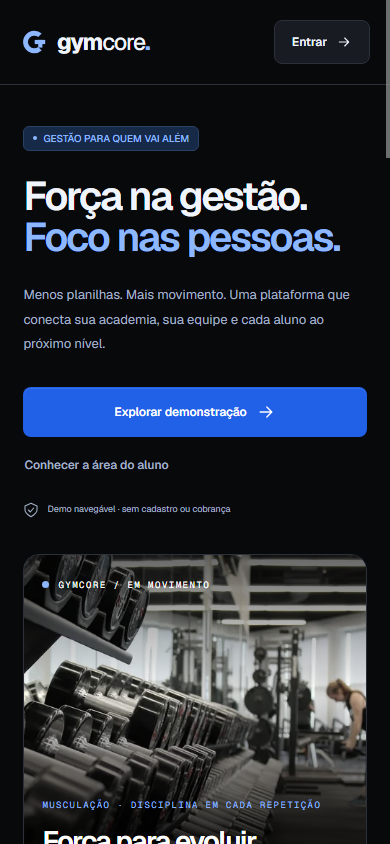
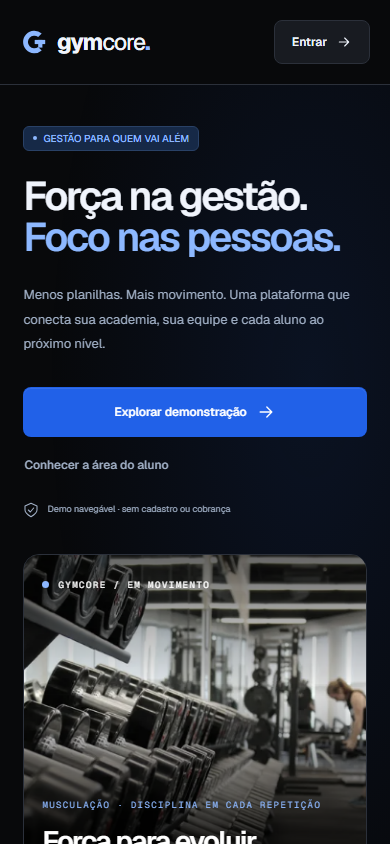
feat: animate home page entrances and interactions

diff --git a/src/components/landing.tsx b/src/components/landing.tsx
@@ -1,11 +1,45 @@
 'use client';
 
 import Link from 'next/link';
+import { useEffect, useRef } from 'react';
 import { GymCarousel } from './gym-carousel';
 import { Logo, Icon } from './icons';
 import { Badge, Button } from './ui';
 export function Landing() {
-  return <div className="landing">
+  const root = useRef<HTMLDivElement>(null);
+  useEffect(() => {
+    const element = root.current;
+    if (!element || !('IntersectionObserver' in window)) return;
+    const preference = window.matchMedia('(prefers-reduced-motion: reduce)');
+    let observer: IntersectionObserver | undefined;
+    const sync = () => {
+      observer?.disconnect();
+      delete element.dataset.motionReady;
+      if (preference.matches) return;
+      observer = new IntersectionObserver(entries => {
+        entries.forEach(entry => {
+          if (entry.isIntersecting) {
+            (entry.target as HTMLElement).dataset.visible = 'true';
+            observer?.unobserve(entry.target);
+          }
+        });
+      }, { threshold: 0.12 });
+      element.querySelectorAll<HTMLElement>('[data-reveal]').forEach(target => {
+        const bounds = target.getBoundingClientRect();
+        if (bounds.top < window.innerHeight && bounds.bottom > 0) target.dataset.visible = 'true';
+        if (!target.dataset.visible) observer?.observe(target);
+      });
+      element.dataset.motionReady = 'true';
+    };
+    sync();
+    preference.addEventListener('change', sync);
+    return () => {
+      observer?.disconnect();
+      preference.removeEventListener('change', sync);
+      delete element.dataset.motionReady;
+    };
+  }, []);
+  return <div ref={root} className="landing">
     <a href="#landing-main" className="skip-link">Pular para o conteúdo</a>
     <header className="landing-header">
       <Link href="/" aria-label="GymCore, início">
@@ -48,8 +82,8 @@ export function Landing() {
         </div>
       </section>
       <section id="produto" className="landing-product">
-        <div className="eyebrow">UM NÚCLEO. TODA A OPERAÇÃO.</div>
-        <h2>Seu negócio não para.<br />Sua gestão acompanha.</h2>
+        <div className="eyebrow" data-reveal>UM NÚCLEO. TODA A OPERAÇÃO.</div>
+        <h2 data-reveal>Seu negócio não para.<br />Sua gestão acompanha.</h2>
         <div className="landing-features">{[{
             icon: 'dashboard',
             title: 'Decisões com direção.',
@@ -65,7 +99,7 @@ export function Landing() {
             title: 'Acesso sem dúvida.',
             text: 'Feedback imediato e estados claros. A recepção pode focar no acolhimento.',
             href: '/recepcao'
-          }].map((f, i) => <Link key={f.title} href={f.href}>
+          }].map((f, i) => <Link key={f.title} href={f.href} data-reveal>
             <span className="feature-index">0{i + 1}</span>
             <Icon name={f.icon} size={32} />
             <h3>{f.title}</h3>
@@ -75,7 +109,7 @@ export function Landing() {
           </Link>)}</div>
       </section>
       <section id="experiencias" className="landing-experiences">
-        <div>
+        <div data-reveal>
           <div className="eyebrow">CADA PESSOA. SEU PRÓPRIO RITMO.</div>
           <h2>Uma experiência que<br />chega até o treino.</h2>
           <p>Reservas, fichas, check-in e evolução. A prévia web do aluno mostra como a academia pode estar presente em cada conquista.</p>
@@ -85,7 +119,7 @@ export function Landing() {
           </Button>
           <p className="small muted">Protótipo web responsivo. App Flutter previsto no handoff.</p>
         </div>
-        <div className="landing-student-card">
+        <div className="landing-student-card" data-reveal>
           <div className="phone-top">
             <span>9:41</span>
             <Icon name="wifi" size={16} />
@@ -112,9 +146,9 @@ export function Landing() {
         </div>
       </section>
       <section id="planos" className="landing-pricing">
-        <div className="eyebrow">ESCOLHA O PRÓXIMO NÍVEL</div>
-        <h2>Um plano para o seu momento.</h2>
-        <p>Conceitos comerciais ilustrativos. Não há contratação ou cobrança nesta demo.</p>
+        <div className="eyebrow" data-reveal>ESCOLHA O PRÓXIMO NÍVEL</div>
+        <h2 data-reveal>Um plano para o seu momento.</h2>
+        <p data-reveal>Conceitos comerciais ilustrativos. Não há contratação ou cobrança nesta demo.</p>
         <div className="pricing-grid">{[{
             name: 'Essencial',
             description: 'O núcleo da sua operação',
@@ -123,7 +157,7 @@ export function Landing() {
             name: 'Performance',
             description: 'Mais visão. Mais possibilidades.',
             items: ['Tudo do Essencial', 'Leads e régua de cobrança', 'Comissões e experiência do aluno']
-          }].map((p, i) => <article key={p.name} className={i ? 'pricing-featured' : ''}>
+          }].map((p, i) => <article key={p.name} data-reveal className={i ? 'pricing-featured' : ''}>
             <Badge tone={i ? 'info' : 'neutral'}>{i ? 'PARA IR ALÉM' : 'PARA COMEÇAR'}</Badge>
             <h3>{p.name}</h3>
             <p>{p.description}</p>

diff --git a/src/app/globals.css b/src/app/globals.css
@@ -5070,7 +5070,7 @@ select,input,textarea { background: var(--bg) }
 }
 .gym-carousel-label>span { width: 7px; height: 7px; background: var(--info); border-radius: 50% }
 .gym-carousel-caption { position: absolute; inset: auto 28px 96px; z-index: 2; color: #fff }
-.gym-carousel-caption>span { font: 9px 'Geist Mono',monospace; letter-spacing: 1.4px; color: var(--info) }
+.gym-caption-content>span { font: 9px 'Geist Mono',monospace; letter-spacing: 1.4px; color: var(--info) }
 .landing .gym-carousel-caption h2 { font-size: clamp(28px,3vw,42px); margin: 12px 0 0; letter-spacing: -1.5px }
 .gym-carousel-controls {
   position: absolute; inset: auto 20px 20px; display: flex; align-items: center;
@@ -5101,4 +5101,61 @@ select,input,textarea { background: var(--bg) }
   .gym-carousel-caption { left: 18px; right: 18px }
   .gym-carousel-controls { left: 12px; right: 12px; gap: 5px }
   .gym-carousel-count { display: none }
+}
+
+/* Landing motion: one-time entrances, scroll reveals and restrained feedback. */
+:root {
+  --duration-reveal: 650ms;
+  --duration-landing-feedback: 220ms;
+  --duration-carousel-drift: 6500ms
+}
+@keyframes landing-enter {
+  from { opacity: 0; transform: translateY(18px) }
+  to { opacity: 1; transform: translateY(0) }
+}
+@keyframes gym-photo-drift {
+  from { transform: scale(1) }
+  to { transform: scale(1.055) }
+}
+@media(prefers-reduced-motion:no-preference) {
+  .landing-header { animation: landing-enter 500ms var(--ease-out) both }
+  .hero-copy>* { animation: landing-enter var(--duration-reveal) var(--ease-out) both }
+  .hero-copy>h1 { animation-delay: 60ms }
+  .hero-copy>p { animation-delay: 120ms }
+  .hero-copy>.button-row { animation-delay: 180ms }
+  .hero-copy>.hero-note { animation-delay: 240ms }
+  .landing-hero>.gym-carousel { animation: landing-enter 800ms 100ms var(--ease-out) both }
+  .landing-hero:before {
+    content: ''; position: absolute; inset: 0; pointer-events: none;
+    background: radial-gradient(ellipse at 80% 30%,#2161e81c,transparent 60%);
+    animation: landing-enter 1200ms var(--ease-out) both
+  }
+  .landing [data-reveal] {
+    transition: opacity var(--duration-reveal) var(--ease-out), transform var(--duration-reveal) var(--ease-out)
+  }
+  .landing[data-motion-ready] [data-reveal]:not([data-visible]):not(:focus-within) {
+    opacity: 0; transform: translateY(24px)
+  }
+  .landing-features>[data-reveal]:nth-child(2),.pricing-grid>[data-reveal]:nth-child(2) { transition-delay: 60ms }
+  .landing-features>[data-reveal]:nth-child(3) { transition-delay: 120ms }
+  .landing-student-card[data-reveal] { transition-delay: 80ms }
+  .landing[data-motion-ready] .landing-student-card[data-reveal]:not([data-visible]) { transform: translateY(24px) rotate(5deg) }
+  .landing [data-reveal]:focus-within { transition: none; opacity: 1 }
+  .gym-slide.is-active img {
+    animation: gym-photo-drift var(--duration-carousel-drift) linear both;
+    animation-play-state: paused
+  }
+  .gym-carousel[data-autoplay=true] .gym-slide.is-active img { animation-play-state: running }
+  .gym-carousel[data-autoplay=true] .gym-caption-content { animation: landing-enter 450ms var(--ease-out) both }
+  .landing .button svg,.landing-features>a>span:last-child svg { transition: transform var(--duration-landing-feedback) var(--ease-out) }
+  .landing-features>a:active { scale: .985 }
+}
+@media(prefers-reduced-motion:no-preference) and (hover:hover) and (pointer:fine) {
+  .landing-features>a[data-visible],.pricing-grid>article[data-visible] {
+    transition: opacity var(--duration-reveal) var(--ease-out), transform var(--duration-landing-feedback) var(--ease-out);
+    transition-delay: 0ms
+  }
+  .landing-features>a[data-visible]:hover,.pricing-grid>article[data-visible]:hover { transform: translateY(-5px) }
+  .landing .button:hover svg,.landing-features>a:hover>span:last-child svg { transform: translateX(3px) }
+  .landing .button:focus-visible svg,.landing-features>a:focus-visible>span:last-child svg { transform: none; transition: none }
 }

diff --git a/src/components/gym-carousel.tsx b/src/components/gym-carousel.tsx
@@ -40,6 +40,7 @@ export function GymCarousel() {
   };
 
   return <section className="gym-carousel" aria-label="Academia em movimento" aria-roledescription="carrossel"
+    data-autoplay={playing && !focused && !reducedMotion}
     onPointerDownCapture={() => setFocused(false)}
     onFocusCapture={event => setFocused(event.target.matches(':focus-visible'))} onBlurCapture={event => {
       if (!event.currentTarget.contains(event.relatedTarget)) setFocused(false);
@@ -57,8 +58,10 @@ export function GymCarousel() {
     </div>
     <span className="gym-carousel-label"><span /> GYMCORE / EM MOVIMENTO</span>
     <div className="gym-carousel-caption" aria-live={playing && !focused && !reducedMotion ? 'off' : 'polite'} aria-atomic="true">
-      <span>{slides[active].detail}</span>
-      <h2>{slides[active].title}</h2>
+      <div key={active} className="gym-caption-content">
+        <span>{slides[active].detail}</span>
+        <h2>{slides[active].title}</h2>
+      </div>
     </div>
     <div className="gym-carousel-controls">
       <div className="gym-carousel-dots" aria-label="Escolher imagem">

diff --git a/docs/04-motion.md b/docs/04-motion.md
@@ -2,6 +2,8 @@
 
 ## Linguagem: precisão com peso
 
+A página inicial usa entrada escalonada de 650 ms (intervalos de 60 ms), revelações por IntersectionObserver ao rolar e feedback de hover de 220 ms nos cards. As fotos do carrossel recebem zoom sutil de 1 a 1,055 em 6,5 s; Pausar interrompe também esse efeito. As legendas entram por opacidade e deslocamento de 18 px. O conteúdo permanece visível sem JavaScript e com movimento reduzido; o foco por teclado revela imediatamente os elementos interativos.
+
 A operação responde imediatamente. Movimento expressivo pertence à apresentação, não ao check-in repetido ou às tabelas. A finalidade do movimento é indicar resposta, hierarquia e profundidade.
 
 | Token | Duração | Curva | Aplicação efetiva |
